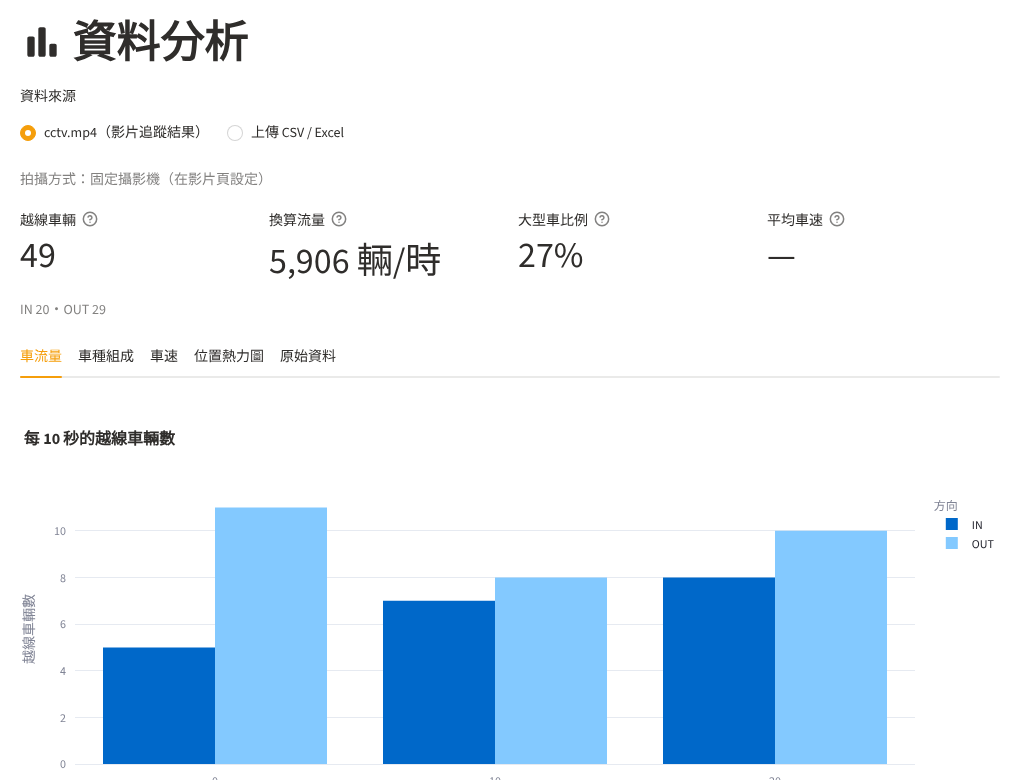
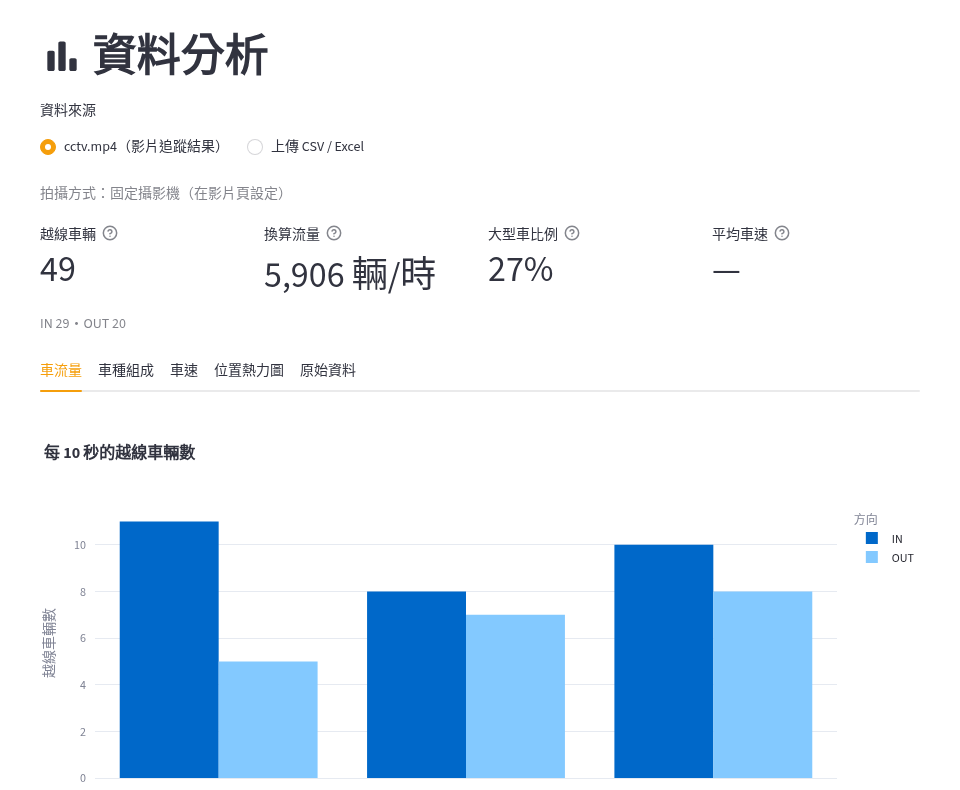
Restructure the README: features first, then technical details
- Lead with what the tool produces and where it is useful
- Describe each app page with its own screenshot (new image detection shot,
  analysis shot re-recorded to match the new IN direction)
- Reorder technical details as problem, method, conclusions, limitations
- Keep the original-project attribution and dataset license note

diff --git a/README.md b/README.md
@@ -14,48 +14,94 @@
   <img src="docs/images/app-home.png" width="720" alt="Traffic Vision App 首頁">
 </p>
 
-## 問題定義
+把既有的 CCTV、空拍與行車紀錄器影片，自動轉成交通調查數據：**分方向車流量、車速、車種組成、危險接近事件**。適用於交通量調查、號誌與路口改善評估、道路安全檢視，減少人工逐台計數的成本。
+
+## ⭐ 功能
+
+Web 分成三個頁面，對應「單張影像 → 影片 → 數據分析」的流程。
+
+### 🖼 影像偵測
+
+上傳一張圖片，偵測畫面中的車輛、機車、行人等物件，並和原圖並排顯示標註結果。除了一般的框選偵測，也可以切換成實例分割模型，把物件輪廓整塊上色，看得比框選更精細。頁面下方會統計各類別的數量，偵測明細（類別、信心分數、框座標）可以下載成 CSV 或 Excel。
+
+<p align="center">
+  <img src="docs/images/app-image.png" width="720" alt="影像偵測頁：原圖與偵測結果並排，下方為類別統計">
+</p>
+
+### 🎞 影片追蹤與計數
+
+上傳影片後逐幀偵測，並為每個物件指定固定的 ID 持續追蹤，在影片上畫出移動軌跡。針對國道 CCTV 這類只有約 5 fps 的低幀率影片，追蹤器另外做了調整，不會因為車子一幀移動太多就跟丟。
+
+- **雙向越線計數**：在畫面上拉一條任意角度的計數線，線上的箭頭指向 IN 方向，反方向穿越算 OUT，每台車只計一次。
+- **區間測速**：再畫一條測速線並輸入兩線的實際距離，就能用車輛通過兩線的時間差換算 km/h。
+- **輸出**：H.264 標註影片，以及每個物件逐幀位置的軌跡資料集（CSV / Excel），可以直接交給「資料分析」頁。
+
+<p align="center">
+  <img src="docs/images/app-video.png" width="720" alt="影片追蹤與計數頁：計數線、IN 箭頭與車輛軌跡">
+</p>
+
+### 📊 資料分析
+
+讀入影片頁的追蹤結果（或上傳之前下載的 CSV / Excel），依拍攝方式產生不同的分析：
+
+| 拍攝方式 | 分析內容 |
+| --- | --- |
+| 固定攝影機（CCTV、懸停空拍） | 越線車輛數與換算每小時流量、各方向流量時序、車種組成與大型車比例、車速分布（中位數、85 百分位）、位置熱力圖 |
+| 行車紀錄器 | 沿途擁擠程度、行人／機車出現的時間占比、TTC 接近事件（附截圖） |
+
+<p align="center">
+  <img src="docs/images/app-analysis.png" width="720" alt="資料分析頁：越線車輛、換算流量、大型車比例與每 10 秒車流量圖">
+</p>
+
+### 🧠 模型選用
+
+三個頁面共用側邊欄的模型設定，類別選單會自動對應到各模型的類別名稱。
+
+| 模型 | 適用畫面 |
+| --- | --- |
+| YOLO26s（預設） | 一般平視：路口監視器、行車記錄器 |
+| YOLO26s-visdrone | 無人機、高處俯拍 |
+| YOLO26s-idd | 機車、騎士很多的平視街景 |
+
+## ⭐ 快速開始
+
+```bash
+python -m venv .venv && source .venv/bin/activate
+pip install torch torchvision --index-url https://download.pytorch.org/whl/cu124   # 依 CUDA 版本調整
+pip install -r requirements.txt
+streamlit run app.py        # http://localhost:8501
+```
+
+## 技術細節
+
+### 1. 問題定義
 
 現成的 YOLO 權重是用 COCO（日常照片）訓練的，直接拿來分析交通影像會遇到三個問題：
 
-1. **空拍畫面**：車和機車只有幾個像素大，大部分都偵測不到。
-2. **機車、騎士很多的街景**：和 COCO 的資料分布不同，台灣這類路況特別明顯。
+1. **空拍小物體**：無人機畫面裡的車和機車只有幾個像素大，大部分都偵測不到。
+2. **機車密集的平視街景**：機車、騎士很多的路況和 COCO 的資料分布差很多，台灣這類路況特別明顯。
 3. **低幀率 CCTV**：國道 CCTV 只有約 5 fps，車子一幀就移動將近一個車身。內建追蹤器靠前後框的 IoU 配對，只留下 3% 的偵測框，越線計數嚴重漏算。
 
-這個專案分別處理這三個問題，量化「換一個領域，模型會忘掉多少」，最後把成果整合成可以上傳影片使用的 Web App。
+前兩個問題靠針對領域微調來解決，但專用模型換到其他畫面可能會退步，所以也要量化這種跨領域遺忘有多嚴重。
 
-## 結論摘要
+### 2. 方法
 
-| 問題 | 做法 | 結果 |
-| --- | --- | --- |
-| 空拍小物體 | 在 VisDrone 上微調 YOLO26s | 共同 6 類 mAP50 **0.206 → 0.487**，機車約提升 4.5 倍 |
-| 平視街景 | 在 IDD 上微調，依影片序列切分 | 共同 6 類 mAP50 **0.478 → 0.712** |
-| 跨領域遺忘 | 3 個模型 × 3 個測試集 | 每個專用模型都只在自己的領域最好；空拍模型在 IDD 只剩 0.174，IDD 模型在 VisDrone 只剩 0.034 |
-
-<p align="center">
-  <img src="docs/images/crossdomain-heatmap.png" width="560" alt="三個模型在 COCO、VisDrone、IDD 三個測試集上的共同 6 類 mAP50">
-</p>
-
-## 資料
+#### 資料與評估
 
 | 資料集 | 視角 | 用途 | 評估方式 |
 | --- | --- | --- | --- |
 | [COCO](https://cocodataset.org/) val2017 | 一般照片 | 預訓練基準、檢查遺忘 | 5,000 張 |
-| [VisDrone2019-DET](https://github.com/VisDrone/VisDrone-Dataset) | 無人機空拍 | 微調 | test-dev（1,610 張），另依官方規則處理忽略區域 |
-| [IDD Detection](https://idd.insaan.iiit.ac.in/) | 印度道路平視 | 微調 | 依影片序列切分，避免相鄰幀洩漏到測試集 |
-| 國道 1 號湖口 CCTV | 高處固定攝影機，約 5 fps | 驗證追蹤與計數 | 人工逐幀計數 |
+| [VisDrone2019-DET](https://github.com/VisDrone/VisDrone-Dataset) | 無人機空拍 | 微調（問題 1） | test-dev（1,610 張），另依官方規則處理忽略區域 |
+| [IDD Detection](https://idd.insaan.iiit.ac.in/) | 印度道路平視 | 微調（問題 2） | 依影片序列切分，避免相鄰幀洩漏到測試集 |
+| 國道 1 號湖口 CCTV | 高處固定攝影機，約 5 fps | 驗證追蹤與計數（問題 3） | 人工逐幀計數 |
 
-- 所有分數都來自訓練過程完全沒用到的測試集，驗證集只用來挑最佳 epoch。
 - 三個資料集的類別不同，跨資料集比較只看共同的 6 類（人、腳踏車、汽車、機車、公車、卡車）。
-- 評估流程檢查：預訓練模型在 COCO 80 類的 mAP50-95 為 0.480，和官方公布值相差不到 1 點。
 
-## 方法
+#### 領域微調
 
-### 1. 領域微調
+從 COCO 權重開始，對 YOLO26s 做全參數微調，分別訓練空拍（VisDrone，訓練解析度 1536）和平視（IDD，1024）兩個專用模型。最後用 3 個模型 × 3 個測試集的交叉評估量化遺忘程度。
 
-從 COCO 權重開始，對 YOLO26s 做全參數微調，分別訓練空拍（VisDrone，訓練解析度 1536）和平視（IDD，1024）兩個專用模型。
-
-### 2. 低幀率多目標追蹤
+#### 低幀率多目標追蹤
 
 [`traffic_vision/tracking.py`](traffic_vision/tracking.py) 沿用 ByteTrack 的流程（高低信心兩階段配對、遺失後找回），但改了三個地方：
 
@@ -63,19 +109,26 @@
 - **類別去重**：同一台車常同時被判成 car 和 truck，四輪車類別之間先去重。騎士和機車本來就會重疊，所以不合併。
 - **新軌跡也能計數**：低幀率下車子可能剛出現就越線，所以還沒確認的軌跡也會把第一個位置交給計數器。
 
-### 3. 從軌跡算出交通指標
+#### 從軌跡算出交通指標
 
 - **雙向越線計數**：用線段相交判斷，計數線可以設成任意角度，每台車只算一次。
 - **區間測速**：車速 = 兩條線的實際距離 ÷ 通過時間差，越線時間依前後兩幀內插。
 - **TTC 接近事件**（行車紀錄器）：框的大小和距離成反比，因此 TTC = 1 ÷ (d ln s / dt)，不需要知道實際距離。
 
-## 主要發現
+### 3. 結論
 
-**1. 微調後能抓到密集的小物體。** 下圖是同一張 VisDrone 測試圖（標註了 170 個物件），左邊是 COCO 預訓練模型，右邊是空拍微調模型。
+| 問題 | 做法 | 結果 |
+| --- | --- | --- |
+| 空拍小物體 | 在 VisDrone 上微調 | 共同 6 類 mAP50 **0.206 → 0.487**，機車約提升 4.5 倍 |
+| 機車密集的平視街景 | 在 IDD 上微調 | 共同 6 類 mAP50 **0.478 → 0.712** |
+| 低幀率 CCTV | 改用距離配對的追蹤器 | 10 秒片段計數 **7 → 12 台**（人工 12–13 台） |
+| 跨領域遺忘 | 3 個模型 × 3 個測試集 | 每個專用模型都只在自己的領域最好 |
+
+**問題 1：微調後能抓到密集的小物體。** 下圖是同一張 VisDrone 測試圖（標註了 170 個物件），左邊是 COCO 預訓練模型，右邊是空拍微調模型。
 
 ![COCO 預訓練與 VisDrone 微調模型在空拍畫面上的偵測結果對比](docs/images/aerial-comparison.jpg)
 
-**2. 訓練和推論的解析度要一起提高。**（VisDrone 官方規則，10 類 mAP50）
+訓練和推論的解析度要一起提高（VisDrone 官方規則，10 類 mAP50）：
 
 | 設定 | mAP50 |
 | --- | --- |
@@ -83,11 +136,11 @@
 | 1024 訓練、1536 推論 | 0.447 |
 | 1536 訓練、1536 推論 | **0.471** |
 
-只把推論解析度提高到 1536，不必重訓就能多 0.035。
+只把推論解析度提高到 1536，不必重訓就能多 0.035。起始權重則影響不大：從 COCO 起點或從 Objects365 → DOTA（空拍）起點開始微調，差距不到 0.01。
 
-**3. 起始權重影響不大。** 從 COCO 起點或從 Objects365 → DOTA（空拍）起點開始微調，差距不到 0.01。
+**問題 2：平視街景的提升比較溫和。** COCO 本來就以平視照片為主，起點已經不低，微調後共同 6 類 mAP50 從 0.478 提升到 0.712。
 
-**4. 低幀率追蹤大幅改善。**（國道 1 號湖口 CCTV，YOLO26m，conf 0.2）
+**問題 3：低幀率追蹤大幅改善。**（國道 1 號湖口 CCTV，YOLO26m，conf 0.2）
 
 | 片段 | 人工計數 | 內建追蹤器 | 本專案 |
 | --- | --- | --- | --- |
@@ -96,37 +149,15 @@
 
 30 fps 的行車影片也一起變好：軌跡覆蓋率 83% → 94%，追蹤 ID 數 108 → 85（同一個物件比較不會被切成好幾段）。
 
-完整設定與數字見 [docs/experiments.md](docs/experiments.md)，原始評估報告在 [reports/](reports/)。
-
-## 應用：Traffic Vision App
+**跨領域遺忘明顯。** 空拍模型在 IDD 只剩 0.174，IDD 模型在 VisDrone 只剩 0.034，沒有一個模型能通吃三種畫面，所以 App 讓使用者依畫面選模型。
 
 <p align="center">
-  <img src="docs/images/app-video.png" width="49%" alt="影片追蹤與計數頁">
-  <img src="docs/images/app-analysis.png" width="49%" alt="資料分析頁">
+  <img src="docs/images/crossdomain-heatmap.png" width="560" alt="三個模型在 COCO、VisDrone、IDD 三個測試集上的共同 6 類 mAP50">
 </p>
 
-| 頁面 | 功能 |
-| --- | --- |
-| 🖼 影像偵測 | 物件偵測或實例分割，可以匯出偵測明細（CSV / Excel） |
-| 🎞 影片追蹤與計數 | 多目標追蹤、任意角度的雙向越線計數、區間測速；輸出 H.264 標註影片和逐幀軌跡 |
-| 📊 資料分析 | 依拍攝方式提供不同的分析（見下表） |
+完整設定與數字見 [docs/experiments.md](docs/experiments.md)，原始評估報告在 [reports/](reports/)。
 
-| 拍攝方式 | 分析內容 |
-| --- | --- |
-| 固定攝影機（CCTV、懸停空拍） | 每小時流量、各方向流量時序、車種組成、車速分布（中位數、85 百分位）、位置熱力圖 |
-| 行車紀錄器 | 沿途擁擠程度、行人／機車出現的時間占比、TTC 接近事件（附截圖） |
-
-**模型選用**：側邊欄可以選三個模型，類別選單會自動對應到各模型的類別名稱。
-
-| 模型 | 適用畫面 | 自己領域的成績 |
-| --- | --- | --- |
-| YOLO26s（預設） | 一般平視：路口監視器、行車記錄器 | COCO 6 類 mAP50 0.719 |
-| YOLO26s-visdrone | 無人機、高處俯拍 | VisDrone 10 類 mAP50 0.471（官方規則） |
-| YOLO26s-idd | 機車、騎士很多的平視街景 | IDD 12 類 mAP50 0.587 |
-
-**線上展示**：網址見最上方。部署在自己的 RTX 4090 主機上，以 ngrok 提供固定網址並加上密碼保護；設定腳本見 [`deploy/install-web.sh`](deploy/install-web.sh)。上傳的檔案只存在主機的暫存資料夾，一天後自動刪除，不會送到外部服務。
-
-## 限制與未來工作
+### 4. 限制與未來工作
 
 **限制**
 
@@ -141,47 +172,21 @@
 
 評估沿用上面的 3×3 跨資料集表格，以三個專用模型的分數當上限。
 
-## 快速開始
-
-```bash
-python -m venv .venv && source .venv/bin/activate
-pip install torch torchvision --index-url https://download.pytorch.org/whl/cu124   # 依 CUDA 版本調整
-pip install -r requirements.txt
-streamlit run app.py        # http://localhost:8501
-```
-
-重現實驗：
-
-```bash
-python -m training.datasets visdrone    # 下載並轉換 VisDrone
-python -m training.finetune             # 微調
-python -m training.visdrone_eval --weights weights/custom/visdrone-yolo26s.pt --split test
-python -m training.crossdomain          # 3×3 跨資料集比較
-```
-
-
 ## 專案結構
 
 ```
 traffic_vision/   核心邏輯：偵測、追蹤、越線計數、軌跡分析（不依賴 Streamlit，可直接在 notebook 使用）
 training/         資料集轉換、微調、評估（含 VisDrone 官方規則、跨資料集比較）
 views/, app.py    Streamlit 介面
-collector/        湖口 CCTV 定時錄影
 deploy/           systemd 服務與安裝腳本
 docs/, reports/   實驗紀錄、圖片、評估報告
 tests/            單元測試（不需要 GPU 或模型權重）
 ```
 
-開發時用 `pip install -r requirements-dev.txt`，再執行 `pytest -q` 和 `ruff check .`；CI 使用 GitHub Actions。
-
 ## 來源與授權
 
-本專案改寫自 [Henryers/yolov8-traffic-app](https://github.com/Henryers/yolov8-traffic-app)（AGPL-3.0），沿用了偵測、軌跡與越線計數的功能構想。主要差異：
-
-- PyQt5 桌面程式改成 Streamlit Web App，單一檔案拆成可以測試的模組，並升級到 YOLO26
-- 越線計數從「y 座標小於固定值」改成線段相交判斷，支援任意角度與 IN / OUT 方向
-- 新增低幀率追蹤器、領域微調與跨資料集評估、分析頁、單元測試與 CI
+本專案改寫自 [Henryers/yolov8-traffic-app](https://github.com/Henryers/yolov8-traffic-app)（AGPL-3.0），沿用了偵測、軌跡與越線計數的功能構想；在此基礎上改成 Streamlit Web App、重寫越線計數，並新增低幀率追蹤器、領域微調與分析頁。程式註解中的「原專案」指的就是它。
 
 依 AGPL-3.0 條款，本專案同樣以 [AGPL-3.0](LICENSE) 釋出；[Ultralytics](https://github.com/ultralytics/ultralytics) 套件與 YOLO 模型也是 AGPL-3.0。
 
-本 repo 不包含資料集與微調權重。VisDrone 與 IDD 限非商業研究用途，請自行下載並遵守各自的使用條款。README 中的空拍對比圖取自 VisDrone 測試集。
+VisDrone 與 IDD 限非商業研究用途，因此本 repo 不包含資料集與微調權重；若要把以它們微調的模型用於商業用途，請先確認各自的使用條款。
